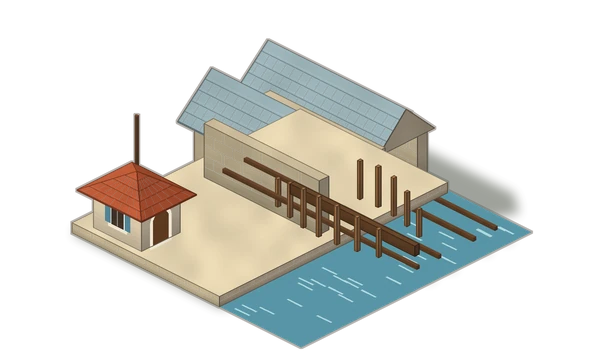
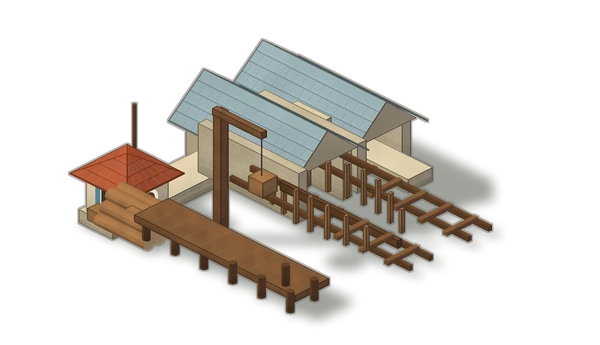
Coast art redesign: blend Liman and Tersane with runtime sea
* Coast art: redraw Liman and Tersane without baked water

* CI: regenerate transparent Liman and Tersane assets

* Regenerate Liman and Tersane coast assets

* Remove one-off coast asset regeneration workflow

---------

diff --git a/payitaht/tools/art/buildings.py b/payitaht/tools/art/buildings.py
@@ -618,64 +618,92 @@ def liman(s, st):
 
 
 def tersane(s, st):
-    """TERSANE-İ ÂMİRE: paralel uzun gemi gözleri ve suya doğru açık büyük
-    ağızlar; konak benzeri blok yerine endüstriyel kıyı silueti."""
-    q = hexc('#c8b897')
-    s.box(0.05, 0.05, 0, 1.28, 1.95, 0.08, PAL['stone'], 'stone',
-          deco_y=[('courses', 0.05)], deco_x=[('courses', 0.05)], top=hexc('#dfcfac'))
-    water_basin(s, 1.28, 0.05, 1.98, 1.97)
+    """TERSANE-İ ÂMİRE: su rengi asset'e bake edilmez. Kara tarafında uzun
+    gemi gözleri ve atölyeler, deniz tarafında şeffaf zeminin üstüne uzanan
+    kızaklar, kazıklar ve gemi inşa iskeleti bulunur; alttan gerçek runtime
+    denizi görünür."""
+    stone = hexc('#c8b897')
+    cap = hexc('#dfcfac')
+    wood = PAL['wood2']
 
-    # Uzun, paralel gemi gözleri. Duvar kütlesinden çok ritmik açıklık/çatı okunur.
+    # Kara-kıyı sınırı: tam dikdörtgen platform yerine dar ve parçalı taş rıhtım.
+    # +x deniz yönü açık bırakılır; böylece sprite'ın altında gerçek deniz görünür.
+    s.box(0.06, 0.08, 0, 0.34, 1.90, 0.10, stone, 'stone',
+          deco_x=[('courses', 0.06)], deco_y=[('courses', 0.06)], top=cap)
+    s.box(0.34, 0.08, 0, 1.18, 0.28, 0.10, stone, 'stone',
+          deco_y=[('courses', 0.06)], deco_x=[('courses', 0.06)], top=cap)
+
+    # Gemi gözleri: kara tarafında uzun, alçak ve denize açık. Ön uçları suya
+    # basmıyor; yalnız duvar/çatı/iskelet var, aradaki boşluk şeffaf.
     n = 2 + (st >= 2)
-    bay = 0.43
+    bay = 0.44
     for i in range(n):
-        y0 = 0.12 + i * 0.47
+        y0 = 0.16 + i * 0.49
         y1 = y0 + bay
-        # Yan duvarlar; suya bakan +x ağzı açık kalır.
-        s.box(0.14, y0, 0.08, 0.22, y1, 0.50, q, 'stone',
+        # Arka duvar ve yan taşıyıcılar.
+        s.box(0.14, y0, 0.10, 0.24, y1, 0.48, stone, 'stone',
               deco_x=[('courses', 0.07)])
-        s.box(0.22, y0, 0.08, 1.18, y0 + 0.08, 0.50, q, 'stone',
+        s.box(0.24, y0, 0.10, 1.08, y0 + 0.07, 0.48, stone, 'stone',
               deco_y=[('courses', 0.07)])
-        s.box(0.22, y1 - 0.08, 0.08, 1.18, y1, 0.50, q, 'stone',
+        s.box(0.24, y1 - 0.07, 0.10, 1.08, y1, 0.48, stone, 'stone',
               deco_y=[('courses', 0.07)])
-        # Büyük beşik çatı gemi gözü siluetini tek bakışta ayırır.
-        s.gable(0.12, y0 - 0.02, 1.22, y1 + 0.02, 0.50, 0.26,
-                PAL['lead'], axis='x', mat='lead', wall=q, wallmat='stone', over=0.05)
-        # İçte kızak rayları.
-        for off in (-0.09, 0.09):
-            s.box(0.26, (y0 + y1) / 2 + off - 0.012, 0.08, 1.88, (y0 + y1) / 2 + off + 0.012, 0.11,
-                  PAL['wooddark'], 'wood', outline=False)
+        # Büyük beşik çatı denize doğru uzanır; altı açık kalır.
+        s.gable(0.12, y0 - 0.025, 1.10, y1 + 0.025, 0.48, 0.24,
+                PAL['lead'], axis='x', mat='lead', wall=stone, wallmat='stone', over=0.05)
 
-    # Orta gözde yapım halindeki kadırga; stage arttıkça iskelet gemiye dönüşür.
-    ym = 0.12 + (n // 2) * 0.47 + bay / 2
+        # İki ahşap kızak rayı: kıyıdan şeffaf deniz bölgesine kadar uzanır.
+        ym = (y0 + y1) / 2
+        for off in (-0.085, 0.085):
+            s.box(0.38, ym + off - 0.013, 0.035,
+                  1.88, ym + off + 0.013, 0.075,
+                  PAL['wooddark'], 'wood', outline=False)
+        # Ray altı yatay traversler, su üstünde ince bir ritim verir.
+        for k in range(7):
+            x = 0.44 + k * 0.21
+            s.box(x, ym - 0.13, 0.025, x + 0.035, ym + 0.13, 0.055,
+                  wood, 'wood', outline=False)
+
+    # Orta kızakta yapım halindeki kadırga.
+    ym = 0.16 + (n // 2) * 0.49 + bay / 2
     if st == 1:
+        # Sadece omurga + kaburgalar: suyla karışan büyük opak gövde yok.
+        s.box(0.72, ym - 0.016, 0.09, 1.70, ym + 0.016, 0.15, PAL['wooddark'], 'wood')
         for i in range(7):
-            x = 0.78 + i * 0.14
-            rib = 0.18 + 0.08 * math.sin(i / 6 * math.pi)
-            s.box(x, ym - rib, 0.10, x + 0.02, ym - rib + 0.025, 0.10 + rib * 1.2, PAL['wood'], 'wood')
-            s.box(x, ym + rib - 0.025, 0.10, x + 0.02, ym + rib, 0.10 + rib * 1.2, PAL['wood'], 'wood')
-        s.box(0.74, ym - 0.018, 0.10, 1.78, ym + 0.018, 0.18, PAL['wooddark'], 'wood')
+            x = 0.78 + i * 0.13
+            rib = 0.16 + 0.075 * math.sin(i / 6 * math.pi)
+            s.box(x, ym - rib, 0.08, x + 0.020, ym - rib + 0.025, 0.08 + rib * 1.15, PAL['wood'], 'wood')
+            s.box(x, ym + rib - 0.025, 0.08, x + 0.020, ym + rib, 0.08 + rib * 1.15, PAL['wood'], 'wood')
     else:
-        ship(s, 1.24, ym, 0.70, 0.24, z=0.10, masts=1, rig='lateen', sails=False)
+        ship(s, 1.26, ym, 0.68, 0.22, z=0.07, masts=1, rig='lateen', sails=False)
+
+    # Denize oturan ahşap servis iskelesi. İskelenin altı şeffaf; yalnız kazık,
+    # tabla ve babalar çizilir.
+    pier_y = 1.66
+    for x in (0.48, 0.72, 0.96, 1.20, 1.44, 1.68):
+        s.cylinder(x, pier_y - 0.10, 0, 0.16, 0.025, PAL['wooddark'], 'wood', n=8)
+        s.cylinder(x, pier_y + 0.10, 0, 0.16, 0.025, PAL['wooddark'], 'wood', n=8)
+    s.box(0.42, pier_y - 0.14, 0.13, 1.76, pier_y + 0.14, 0.18,
+          wood, 'wood', deco_top=[('vplanks', 10)])
+
+    # Vinç ve malzeme kara/rıhtım tarafında kalır.
+    crane(s, 0.78, 1.44, 0.88 + 0.12 * st, 0.36, axis='x')
+    logs(s, 0.16, 1.56, 3 + st, 'x', 0.42)
+    for i in range(2 + st):
+        s.crate(0.18 + (i % 2) * 0.16, 1.74 + (i // 2) * 0.12, 0.09, z=0.10)
 
     if st >= 2:
-        # Suya indirilmiş gemi + büyük portal vinç.
-        ship(s, 1.34, 0.28 if ym > 0.85 else 1.62, 0.58, 0.18, masts=1, rig='lateen')
-        crane(s, 1.12, 0.10, 1.22, 0.50, axis='x')
-        cannonballs(s, 0.34, 1.72)
+        # Küçük servis teknesi gerçek deniz üstünde okunur.
+        ship(s, 1.56, 0.28, 0.46, 0.14, z=0.035, masts=1, rig='lateen', stern=False)
     if st >= 3:
-        # İkinci vinç ve donatım alanı, fakat konak/köşk kütlesi yok.
-        crane(s, 0.62, 1.76, 0.94, 0.38, axis='y')
-        logs(s, 0.26, 1.62, 4, 'x', 0.48)
-        for i in range(3):
-            s.crate(0.88 + i * 0.15, 1.68, 0.11)
+        crane(s, 0.40, 0.42, 1.00, 0.40, axis='x')
+        cannonballs(s, 0.24, 1.36, z=0.10)
 
-    # Tersane emini için küçük gözetim odası; ana silueti bastırmaz.
-    s.box(0.18, 1.58, 0.08, 0.58, 1.90, 0.40, PAL['plaster'], 'plaster',
-          deco_y=[('win', 0.5, 0.10, 0.10, 0.16, 'shutter')],
-          deco_x=[('archdoor', 0.5, 0.0, 0.13, 0.24)])
-    s.hip(0.16, 1.56, 0.60, 1.92, 0.40, 0.14, PAL['roof2'], over=0.05)
-    s.flag(0.30, 1.66, 0.42, 0.48)
+    # Tersane emini odası: kara köşesinde küçük; suyun üstüne taşmaz.
+    s.box(0.10, 1.54, 0.10, 0.44, 1.88, 0.42, PAL['plaster'], 'plaster',
+          deco_y=[('win', 0.5, 0.09, 0.09, 0.15, 'shutter')],
+          deco_x=[('archdoor', 0.5, 0.0, 0.12, 0.22)])
+    s.hip(0.08, 1.52, 0.46, 1.90, 0.42, 0.13, PAL['roof2'], over=0.05)
+    s.flag(0.24, 1.62, 0.46, 0.42)
 
 
 def karagoz(s, st):
@@ -2351,50 +2379,76 @@ def _p6_culture(s, st, kind):
 
 
 def _p6_harbour(s, st):
-    """TİCARET LİMANI: geniş açık rıhtım + gümrük hanı + fener; tersaneden
-    farklı olarak gemi üretimi değil mal akışı ve kent kapısı okunur."""
-    q = PAL['stone']
-    # Sol/üst tarafta taş şehir rıhtımı, sağ-alt geniş su havuzu.
-    s.box(0.05, 0.05, 0, 1.92, 0.74, 0.09, q, 'stone',
-          deco_y=[('courses', 0.05)], deco_x=[('courses', 0.05)], top=hexc('#dfcfac'))
-    s.box(0.05, 0.74, 0, 0.74, 1.94, 0.09, q, 'stone',
-          deco_y=[('courses', 0.05)], deco_x=[('courses', 0.05)], top=hexc('#dfcfac'))
-    water_basin(s, 0.74, 0.74, 1.98, 1.98)
-    bollards(s, [(0.88 + i * 0.22, 0.72) for i in range(5)] + [(0.72, 0.92 + i * 0.22) for i in range(4)])
+    """TİCARET LİMANI: deniz rengi asset'e bake edilmez. Gümrük ve ambar
+    kara tarafında kalır; taş mendirek, ahşap iskele, vinç ve gemiler şeffaf
+    deniz bölgesinin üstüne uzanır. Böylece oyunun gerçek denizi alttan görünür."""
+    stone = PAL['stone']
+    cap = hexc('#dfcfac')
 
-    # Gümrük hanı: yatay ve şehir kapısı gibi.
-    h = 0.46 + 0.05 * st
-    s.box(0.14, 0.14, 0.09, 1.16, 0.58, 0.09 + h, hexc('#e4d2ad'), 'stone',
-          deco_y=[('courses', 0.08), ('archdoor', 0.5, 0, 0.18, 0.28)]
-                 + [('arch', u, 0.10, 0.09, 0.17) for u in (0.20, 0.80)],
+    # Kara tarafında dar taş rıhtım omurgası. Eski L biçimli dev opak platform
+    # küçültüldü; deniz tarafında geniş şeffaf boşluk bırakıldı.
+    s.box(0.06, 0.08, 0, 1.50, 0.34, 0.10, stone, 'stone',
+          deco_y=[('courses', 0.055)], deco_x=[('courses', 0.055)], top=cap)
+    s.box(0.06, 0.34, 0, 0.40, 1.88, 0.10, stone, 'stone',
+          deco_y=[('courses', 0.055)], deco_x=[('courses', 0.055)], top=cap)
+
+    # Gümrük hanı: tamamı kara tarafında ve daha yatay; denizi örtmez.
+    h = 0.42 + 0.05 * st
+    s.box(0.12, 0.12, 0.10, 1.02, 0.52, 0.10 + h, hexc('#e4d2ad'), 'stone',
+          deco_y=[('courses', 0.08), ('archdoor', 0.50, 0, 0.16, 0.25),
+                  ('arch', 0.18, 0.08, 0.085, 0.15), ('arch', 0.82, 0.08, 0.085, 0.15)],
           deco_x=[('courses', 0.08)])
-    s.hip(0.12, 0.12, 1.18, 0.60, 0.09 + h, 0.16, PAL['lead'], over=0.08, mat='lead')
+    s.hip(0.10, 0.10, 1.04, 0.54, 0.10 + h, 0.15, PAL['lead'], over=0.07, mat='lead')
 
     if st >= 2:
-        # Rıhtım ambarı.
-        s.box(1.28, 0.16, 0.09, 1.84, 0.58, 0.44, hexc('#cdbb99'), 'stone',
-              deco_y=[('archdoor', 0.5, 0, 0.16, 0.24)])
-        s.gable(1.26, 0.14, 1.86, 0.60, 0.44, 0.16, PAL['roof'], axis='x',
-                wall=hexc('#cdbb99'), wallmat='stone')
-        crane(s, 1.42, 0.68, 0.88, 0.38, axis='y')
+        # Küçük rıhtım ambarı; yine su üstüne büyük kütle taşımıyor.
+        s.box(1.08, 0.12, 0.10, 1.48, 0.52, 0.39, hexc('#cdbb99'), 'stone',
+              deco_y=[('archdoor', 0.5, 0, 0.14, 0.22)])
+        s.gable(1.06, 0.10, 1.50, 0.54, 0.39, 0.14, PAL['roof'], axis='x',
+                wall=hexc('#cdbb99'), wallmat='stone', over=0.04)
 
-    # Fener: tersanedeki üretim siluetinden farklı tek dikey odak.
-    fh = 0.82 + 0.12 * st
-    s.cylinder(0.36, 1.58, 0.09, fh, 0.10, PAL['marble'], 'stone', n=12,
-               deco=[('band', 0.34, 0.46, PAL['red']), ('band', 0.70, 0.82, PAL['red'])])
-    s.cylinder(0.36, 1.58, fh, fh + 0.05, 0.14, PAL['stone2'], 'stone', n=12)
-    s.cylinder(0.36, 1.58, fh + 0.05, fh + 0.16, 0.075, hexc('#f5d27a'), 'flat', n=10)
-    s.cone(0.36, 1.58, fh + 0.16, 0.14, 0.10, PAL['lead'], 'lead', n=10)
+    # Ana taş iskele: dar bir parmak gibi şeffaf denizin içine uzanır.
+    s.box(0.32, 0.86, 0.02, 1.58, 1.10, 0.10, stone, 'stone',
+          deco_y=[('courses', 0.05)], deco_x=[('courses', 0.05)], top=cap)
+    bollards(s, [(0.48 + i * 0.22, 0.84) for i in range(5)] +
+                [(0.48 + i * 0.22, 1.12) for i in range(5)], z=0.10)
 
-    # Ticaret gemileri + yük.
-    ship(s, 0.92, 1.16, 0.82 + 0.08 * st, 0.23, masts=1 + (st >= 2), rig='square')
-    if st >= 3:
-        ship(s, 1.08, 1.70, 0.56, 0.17, masts=1, rig='lateen', stern=False)
+    # İkinci ahşap yükleme iskelesi; aralarında runtime denizi görünür.
+    for x in (0.52, 0.78, 1.04, 1.30, 1.56):
+        s.cylinder(x, 1.42, 0, 0.15, 0.024, PAL['wooddark'], 'wood', n=8)
+        s.cylinder(x, 1.64, 0, 0.15, 0.024, PAL['wooddark'], 'wood', n=8)
+    s.box(0.44, 1.38, 0.13, 1.66, 1.68, 0.18, PAL['wood2'], 'wood',
+          deco_top=[('vplanks', 9)])
+    bollards(s, [(0.54 + i * 0.26, 1.36) for i in range(4)], z=0.18)
+
+    # Yük vinci su-kara sınırında, gemi boşaltma yönüne bakar.
+    crane(s, 0.42, 0.70, 0.78 + 0.08 * st, 0.36, axis='x')
+    if st >= 2:
+        crane(s, 1.18, 1.24, 0.72, 0.30, axis='y')
+
+    # Mallar kıyı hattında kümelenir; su alanına yayılmaz.
     for i in range(3 + st):
-        s.crate(0.84 + (i % 3) * 0.17, 0.80 + (i // 3) * 0.14, 0.10)
+        s.crate(0.52 + (i % 3) * 0.18, 0.60 + (i // 3) * 0.14, 0.09, z=0.10)
     for i in range(2 + st):
-        s.barrel(0.18 + (i % 3) * 0.13, 0.88 + (i // 3) * 0.14, 0.045)
-    s.flag(0.18, 0.18, 0.62, 0.46)
+        s.barrel(0.14 + (i % 2) * 0.13, 0.66 + (i // 2) * 0.14, 0.042, z=0.10)
+
+    # Fener artık dev kule değil; rıhtım ucunda küçük liman feneri.
+    fh = 0.58 + 0.10 * st
+    fx, fy = 0.22, 1.58
+    s.cylinder(fx, fy, 0.10, fh, 0.075, PAL['marble'], 'stone', n=12,
+               deco=[('band', 0.28, 0.42, PAL['red'])])
+    s.cylinder(fx, fy, fh, fh + 0.045, 0.11, PAL['stone2'], 'stone', n=12)
+    s.cylinder(fx, fy, fh + 0.045, fh + 0.13, 0.060, hexc('#f5d27a'), 'flat', n=10)
+    s.cone(fx, fy, fh + 0.13, 0.11, 0.085, PAL['lead'], 'lead', n=10)
+
+    # Ticaret gemileri tamamen şeffaf deniz bölgesi üzerinde. Kendi mavi zeminleri yok.
+    ship(s, 1.20, 1.20, 0.66 + 0.07 * st, 0.19, z=0.035,
+         masts=1 + (st >= 2), rig='square')
+    if st >= 3:
+        ship(s, 1.30, 1.78, 0.44, 0.13, z=0.03,
+             masts=1, rig='lateen', stern=False)
+
+    s.flag(0.18, 0.18, 0.58, 0.42)
 
 
 # --- Pass 6 override girişleri -------------------------------------
